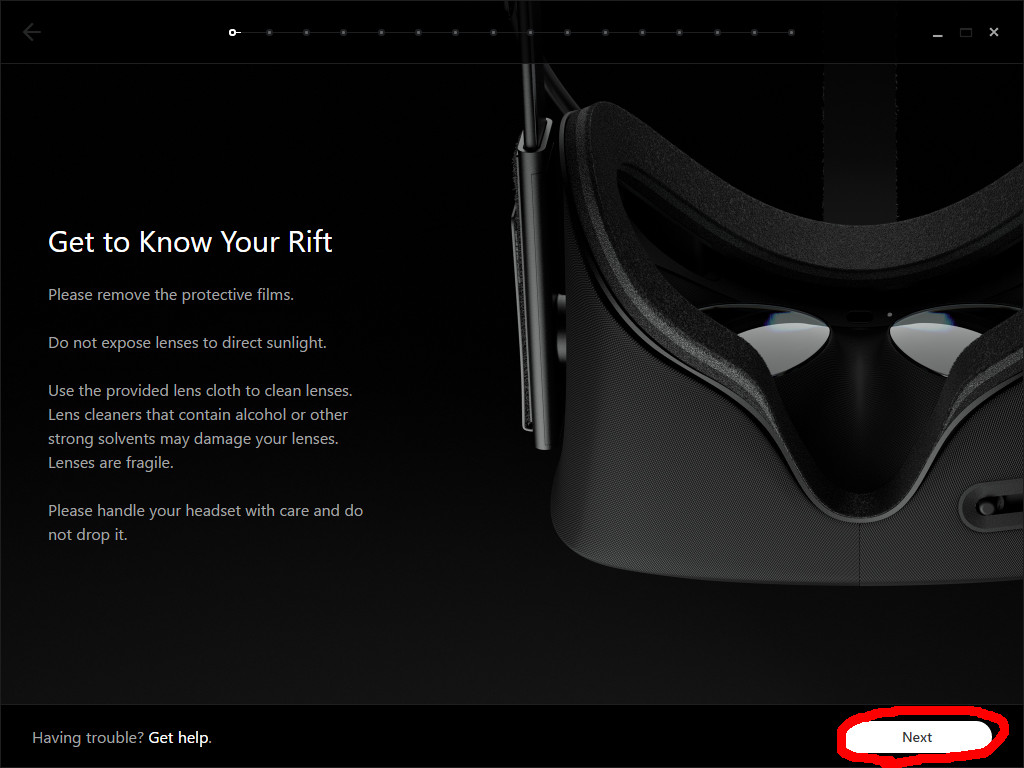
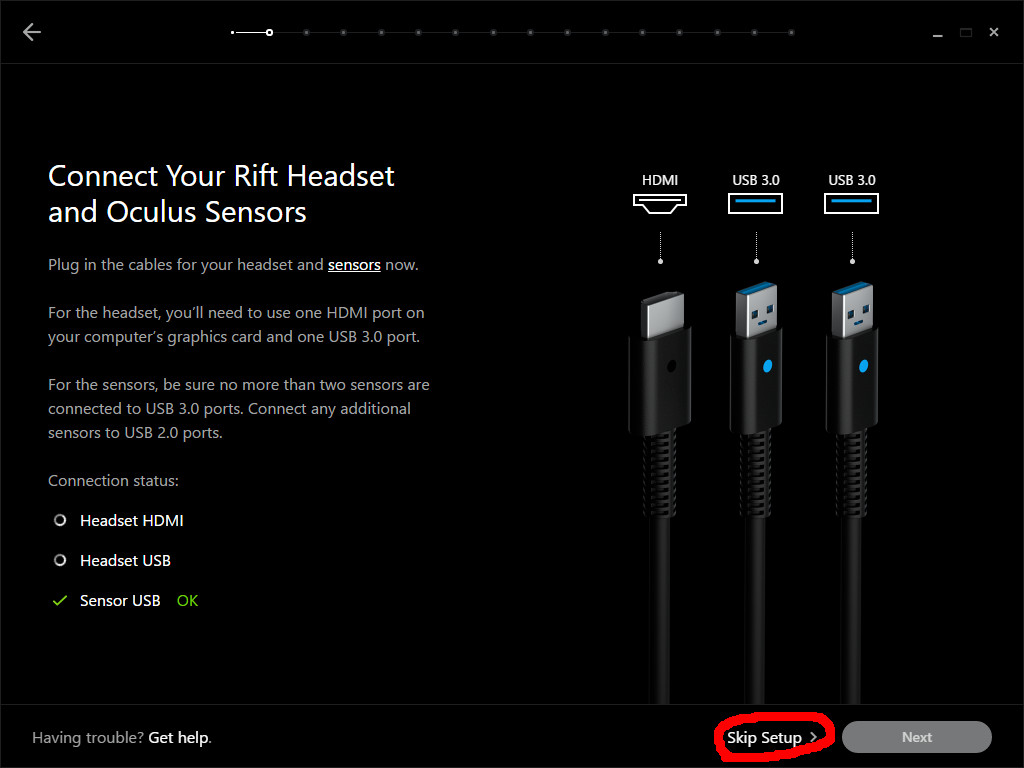
OculusRiftDK2のセットアップ文章を、殆ど記述した。 図番号のみ、未挿入。

diff --git a/Oculus_Rift_DK2_Setup_For_Unity.md b/Oculus_Rift_DK2_Setup_For_Unity.md
@@ -1,2 +1,98 @@
 # OculusRiftDK2をUnityでセットアップ
+<br>
+「OculusRiftDK2」のセットアップの続きです。 
+ここまでで、OculusRiftDK2は、パソコンに接続している状態です。
+<br>
+<br>
+<br>
+
+
+
+####　次に、Unity内でOculusをセットアップします。 
+<br>
+Unityを起動し、プロジェクトを読み込んで下さい。
+![](/Graphics/Oculus_Rift_DK2/Setup_For_Unity/1.jpg)  
+**図. Unity画面**
+<br>
+
+
+続いて、ダウンロードした「ovr_unity_utilities_1.15.0.zip」を解凍して下さい。
+解凍ソフトが入っている場合、起動すると自動で解凍されますが、
+そうでない場合は、解凍ソフトを探してインストールしておいて下さい。
+![](/Graphics/Oculus_Rift_DK2/Setup_For_Unity/2.jpg)  
+**図. 圧縮ファイル**
+<br>
+
+
+解凍されると、「ovr_unity_utilities_1.15.0」フォルダが出来ます。
+![](/Graphics/Oculus_Rift_DK2/Setup_For_Unity/3.jpg) 
+**図. 解凍後のフォルダ**
+<br>
+
+
+フォルダ内の「OculusUtilities」フォルダを開きます。
+![](/Graphics/Oculus_Rift_DK2/Setup_For_Unity/4.jpg)  
+**図. 解凍後のフォルダ内**
+<br>
+
+
+その中の「OculusUtilities.unitypackage」を起動して下さい。
+![](/Graphics/Oculus_Rift_DK2/Setup_For_Unity/5.jpg)  
+**図. OculusUtilitiesフォルダ内**
+<br>
+<br>
+<br>
+
+
+
+####　ここからは、Unity内での作業になります。
+Unity内で、下記のウィンドウが出ます。
+右下の「Import」を押します。
+これでOculus関係のファイルが読み込まれます。
+![](/Graphics/Oculus_Rift_DK2/Setup_For_Unity/6.jpg)  
+**図. パッケージ読み込み画面**
+<br>
+
+
+再起動を促して来た場合、「Restart」を押し、再起動しましょう。
+![](/Graphics/Oculus_Rift_DK2/Setup_For_Unity/7.jpg)  
+**図. 再起動催促画面**
+<br>
+
+
+バージョン更新を促して来た場合、「Yes」を押しましょう。
+![](/Graphics/Oculus_Rift_DK2/Setup_For_Unity/8.jpg)  
+**図. バージョン更新催促画面**
+<br>
+
+
+上部メニューから、「Edit　→　Project Settings　→　Player」を選択し、
+「Inspector」ウィンドウの「Other Settings」内の「Virtual Reality Supported」チェックを入れます。
+![](/Graphics/Oculus_Rift_DK2/Setup_For_Unity/9.jpg)  
+**図. VR設定画面**
+<br>
+
+
+Oculusファイルが正常に読み込まれた場合、「Project」ウィンドウにて「OVR」フォルダが作成されている事が確認出来ます。
+「OVR/Prefabs」内の「OVRPlayerController」プレハブを、「Scene」ウィンドウにドラッグして下さい。
+![](/Graphics/Oculus_Rift_DK2/Setup_For_Unity/10.jpg)  
+**図. Oculusプレハブのドラッグ**
+<br>
+
+
+これは、OculusRiftのカメラ移動と歩行機能が、既にプログラムされた物であり、ドラッグして配置するだけで、直ぐに使えます。
+<br>
+「Hierarchy」ウィンドウから、ドラッグした「OVRPlayerController」を選択して下さい。
+位置を調整して、電車の先頭車両の椅子付近に配置して見て下さい。
+回転を調整して、電車の進行方向に向かせて下さい。
+これらが、アプリ開始時の最初の位置、角度になります。
+![](/Graphics/Oculus_Rift_DK2/Setup_For_Unity/11.jpg)  
+**図. Oculusプレハブの配置調整後**
+<br>
+
+
+OculusRiftDK2を被り、Unityの再生ボタンを押して、開始してみましょう。
+最初、Oculusに健康への警告文が表示され、数秒後Unityの画面が映ります。
+上手く電車に乗車出来ましたか？
+
 

diff --git a/Oculus_Rift_DK2_Install.md b/Oculus_Rift_DK2_Install.md
@@ -1,2 +1,93 @@
 # OculusRiftDK2のインストール
+<br>
+「OculusRiftDK2」のセットアップの続きです。
+OculusRiftDK2は、まだパソコンに接続しないで下さい。
+<br>
+<br>
+<br>
+
+
+
+####　次に、ドライバをインストールします。 
+ダウンロードした「OculusSetup.exe」を起動します。
+![](/Graphics/Oculus_Rift_DK2/Install/1.jpg)  
+**図. Oculusドライバのファイル**
+<br>
+
+
+Windowsから、「このアプリがデバイスに変更を加えることを許可しますか？」と尋ねられる場合は、
+「はい」を選択して下さい。
+<br>
+
+
+左上の言語プルダウンが、「English(US)」になっている事を確認し、
+「Let's Go」ボタンを押します。
+![](/Graphics/Oculus_Rift_DK2/Install/2.jpg)  
+**図. ようこそ画面**
+<br>
+
+
+続いて、「Agree」ボタンを押します。
+![](/Graphics/Oculus_Rift_DK2/Install/3.jpg)  
+**図. 規約了承画面**
+<br>
+
+
+続いて、左下に数字が表示されます。
+健康に関する警告文ですので、待ちましょう。
+![](/Graphics/Oculus_Rift_DK2/Install/4.jpg)  
+**図. 健康への警告画面**
+<br>
+
+
+続いて、「Next」ボタンを押します。
+![](/Graphics/Oculus_Rift_DK2/Install/5.jpg)  
+**図. アプリ保存場所設定画面**
+<br>
+
+
+続いて、「Install Now」ボタンを押します。
+![](/Graphics/Oculus_Rift_DK2/Install/6.jpg)  
+**図. ドライバのインストール場所設定画面**
+<br>
+
+
+ドライバのダウンロードが始まります。
+1時間掛かる事もあるので、気長に待ちましょう。
+![](/Graphics/Oculus_Rift_DK2/Install/7.jpg)  
+**図. ダウンロード中画面**
+<br>
+
+
+ダウンロード後、ドライバのインストールが始まります。
+こちらも、気長に待ちましょう。
+![](/Graphics/Oculus_Rift_DK2/Install/8.jpg)  
+**図. インストール中画面**
+<br>
+
+
+インストールが終了した場合、「Next」を押します。
+![](/Graphics/Oculus_Rift_DK2/Install/9.jpg)  
+**図. インストール完了画面**
+<br>
+
+
+続いて、左下の「Sign in」を押します。
+![](/Graphics/Oculus_Rift_DK2/Install/10.jpg)  
+**図. サインイン画面**
+<br>
+
+
+公式サイトで登録した「メールアドレス」と「パスワード」を入力し、「Sign In」ボタンを押します。
+![](/Graphics/Oculus_Rift_DK2/Install/11.jpg)  
+**図. サインイン打ち込み画面**
+<br>
+
+
+インターネット通信にプロキシを使用している場合、エラーが出ます。
+プロキシの無い環境で行うか、それが無理なら頑張って調べて通して下さい。
+![](/Graphics/Oculus_Rift_DK2/Install/12.jpg)  
+**図. サインイン打ち込み画面のエラー**
+<br>
+
 

diff --git a/Oculus_Rift_DK2_Setup.md b/Oculus_Rift_DK2_Setup.md
@@ -1,2 +1,51 @@
 # OculusRiftDK2のセットアップ
+<br>
+「OculusRiftDK2」のセットアップの続きです。 
+OculusRiftDK2は、まだパソコンに接続しないで下さい。
+<br>
+<br>
+<br>
+
+
+
+####　次に、ドライバをセットアップします。 
+前回の状態のままなら、「Oculus」が自動で起動しています。
+そうでなければ、デスクトップに作成された「Oculus」ショートカットを起動して下さい。
+<br>
+「Agree」ボタンを押します。
+![](/Graphics/Oculus_Rift_DK2/Setup/1.jpg)  
+**図. 規約了承画面**
+<br>
+
+
+もしログインを求められた場合、再度ログインします。
+<br>
+続いて、右下の「Next」ボタンを押します。
+![](/Graphics/Oculus_Rift_DK2/Setup/2.jpg)  
+**図. セットアップ開始画面**
+<br>
+
+
+ここで、OculusRiftDK2をパソコンに接続しましょう。
+<br>
+この資料では、OculusRiftの製品版ではなく、DK2を使用しています。
+その為、一部の接続状態が読み取れないので、設定をスキップします。
+<br>
+右下の「Skip Setup」を押します。
+![](/Graphics/Oculus_Rift_DK2/Setup/3.jpg)  
+**図. 接続読み取り画面**
+<br>
+
+
+更に、「Skip Setup」ボタンを押します。
+![](/Graphics/Oculus_Rift_DK2/Setup/4.jpg)  
+**図. スキップ確認画面**
+<br>
+
+
+下記画面のように、ドライバアプリが起動すれば、セットアップは完了です。
+![](/Graphics/Oculus_Rift_DK2/Setup/5.jpg)  
+**図. ドライバ正常起動画面**
+<br>
+
 

diff --git a/Oculus_Rift_DK2_Download.md b/Oculus_Rift_DK2_Download.md
@@ -1,14 +1,15 @@
 # OculusRiftDK2のダウンロード
 <br>
-この章では、VR用のヘッドマウントディスプレイ「OculusRiftDK2」をセットアップしましょう。  
+この章では、VR用のヘッドマウントディスプレイ「OculusRiftDK2」をセットアップしましょう。 
 この章を行うと、アプリへの没入感が上がります。
+OculusRiftDK2は、まだパソコンに接続しないで下さい。
 <br>
 <br>
 <br>
 
 
 
-####　最初に、ドライバをインストールします。  
+####　最初に、ドライバをダウンロードします。  
 ブラウザを立ち上げ、下記リンクにアクセスして下さい。  
 [https://www3.oculus.com/en-us/setup/](https://www3.oculus.com/en-us/setup/)
 <br>
@@ -41,7 +42,7 @@
 
 
 
-####　次に、Unityで使用するアセットパッケージをインストールします。  
+####　次に、Unityで使用するアセットパッケージをダウンロードします。  
 ブラウザを立ち上げ、下記リンクにアクセスして下さい。  
 [https://developer.oculus.com/downloads/package/oculus-utilities-for-unity-5/1.15.0/](https://developer.oculus.com/downloads/package/oculus-utilities-for-unity-5/1.15.0/)
 <br>
